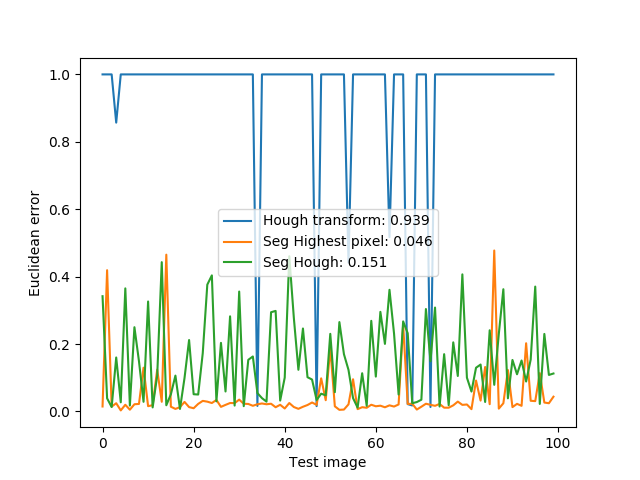
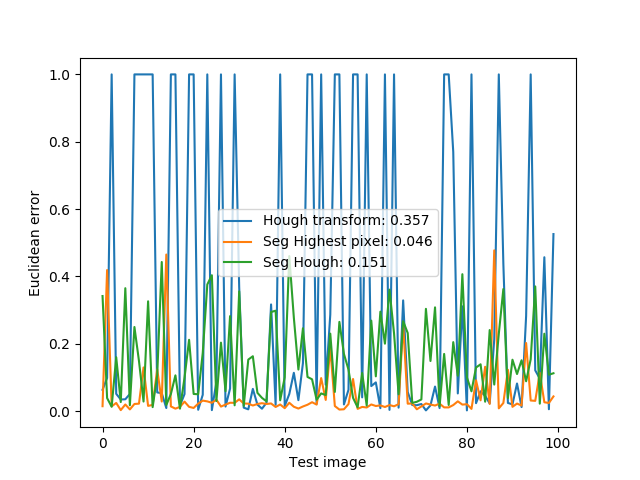
change vp detection parameters

Changed region(s): [[0.1562, 0.125, 0.875, 0.875]]

diff --git a/Implementatie/ExpantionDetector/HoughVanishing.py b/Implementatie/ExpantionDetector/HoughVanishing.py
@@ -10,10 +10,10 @@ def transform(point: tuple, shape: tuple) -> tuple:
 
 class HoughVanishing(ExpantionDetector):
     def __init__(self):
-        self.std_dev = 0.34
+        self.std_dev = 0.65
         self.houghlines_divisor = 10
-        self.min_crossing_angle = 1
-        self.theta_tresh = 0.2
+        self.min_crossing_angle = 0.5
+        self.theta_tresh = 0.1
 
         self.lines = []
         self.intersections = []
@@ -35,12 +35,21 @@ class HoughVanishing(ExpantionDetector):
     def _calc_treshold(self, img_gray):
         """ Calculate a threshold for edge detection based on the median grayscale value """
         vector = np.reshape(img_gray, img_gray.shape[0] * img_gray.shape[1])
-        median = np.median(vector)
+        median = np.mean(vector)
 
         low_tresh = median / self.std_dev
         high_tresh = median * self.std_dev
 
         return low_tresh, high_tresh
+
+    def mean_intersection(self):
+        if len(self.intersections):
+            intersection_x = sum(i[0] for i in self.intersections)/len(self.intersections)
+            intersection_y = sum(i[1] for i in self.intersections) / len(self.intersections)
+
+            return intersection_x, intersection_y
+
+        return False
 
     def detect(self, orig: np.ndarray) -> list:
         """
@@ -61,7 +70,7 @@ class HoughVanishing(ExpantionDetector):
 
         # Detect lines using Hough transform
         hough_tresh = int(np.sqrt(((img.shape[0] * img.shape[0]) + (img.shape[1] * img.shape[1]))) / self.houghlines_divisor)
-        lines = cv2.HoughLines(img_edges, 1, np.pi / 180, hough_tresh)
+        lines = cv2.HoughLines(mask, 1, np.pi / 180, hough_tresh)
 
         if lines is not None:
             for i in range(len(lines)):
@@ -88,25 +97,30 @@ class HoughVanishing(ExpantionDetector):
                         theta2 = lines[j][0][1]
                         costheta2 = np.cos(theta2)
                         sintheta2 = np.sin(theta2)
+                        if (theta2 > (0 + self.theta_tresh)) and (theta2 < (np.pi / 2 - self.theta_tresh)) or (
+                                theta2 > ((np.pi / 2) + self.theta_tresh)) and (theta2 < (np.pi - self.theta_tresh)):
 
-                        # Don't use lines that are the same
-                        if (abs(theta1) - abs(theta2)) < self.min_crossing_angle:
-                            break
+                            # Don't use lines that are the same
+                            if abs(abs(theta1) - abs(theta2)) < self.min_crossing_angle:
+                                continue
 
-                        det = (costheta1 * sintheta2) - (sintheta1 * costheta2)
-                        intersection_x = (((sintheta2 * rho1) - (sintheta1 * rho2)) / det) / width
-                        intersection_y = (((-costheta2 * rho1) + (costheta1 * rho2)) / det) / height
+                            det = (costheta1 * sintheta2) - (sintheta1 * costheta2)
+                            intersection_x = (((sintheta2 * rho1) - (sintheta1 * rho2)) / det) / width
+                            intersection_y = (((-costheta2 * rho1) + (costheta1 * rho2)) / det) / height
 
-                        self.intersections.append((intersection_x, intersection_y))
+                            self.intersections.append((intersection_x, intersection_y))
 
-        return self.intersections
+        return self.mean_intersection()
 
     def render(self, img: np.ndarray) -> np.ndarray:
         """ Render the vanishing points onto the given frame """
         for point in self.intersections:
             cv2.circle(img, transform(point, img.shape), 10, (0, 0, 255))
 
+        if len(self.intersections):
+            cv2.circle(img, transform(self.mean_intersection(), img.shape), 10, (0, 255, 0))
+
         # for line in self.lines:
-        #     cv2.line(img, transform(line[0], img.shape), transform(line[1], img.shape), (255, 0, 0), 5)
+        #     cv2.line(img, transform(line[0], img.shape), transform(line[1], img.shape), (255, 0, 0), 2)
 
         return img

diff --git a/Implementatie/test_seg.py b/Implementatie/test_seg.py
@@ -59,7 +59,7 @@ if __name__ == "__main__":
     img3 = expantion.render(img.copy())
 
     vanishing = HoughVanishing()
-    intersections = vanishing.detect(img)
+    detection = vanishing.detect(img)
     img2 = img.copy()
     img2 = vanishing.render(img2)
     cv2.imshow("HoughVanishing", img2)
@@ -73,26 +73,3 @@ if __name__ == "__main__":
     cv2.imwrite("validation/3.png", vis)
 
     cv2.waitKey(0)
-    exit(0)
-
-    boxes = []
-
-    filename = image_path.split('.')[0]
-    for line in open(filename+'.detect', 'r'):
-        box = BoundingBox()
-        data = [float(x) for x in line.rstrip().split(' ')]
-
-        box.from_yolo(*data)
-        boxes.append(box)
-
-    for box in boxes:
-        angle = DetectionAngle(intersections[0])
-        ang = angle.calculate(box)
-        print(ang)
-
-        draw(img, box, intersections[0])
-
-    if args.output_path:
-        cv2.imwrite(args.output_path, img)
-    else:
-        cv2.waitKey(0)

diff --git a/Implementatie/validation.py b/Implementatie/validation.py
@@ -24,7 +24,7 @@ def test_hough(image_path, images):
         detection = vanishing.detect(img)
 
         if detection:
-            detection = np.array(detection[0])
+            detection = np.array(detection)
             real = np.array(vanishing_points[image])
 
             error = np.linalg.norm(real - detection)
